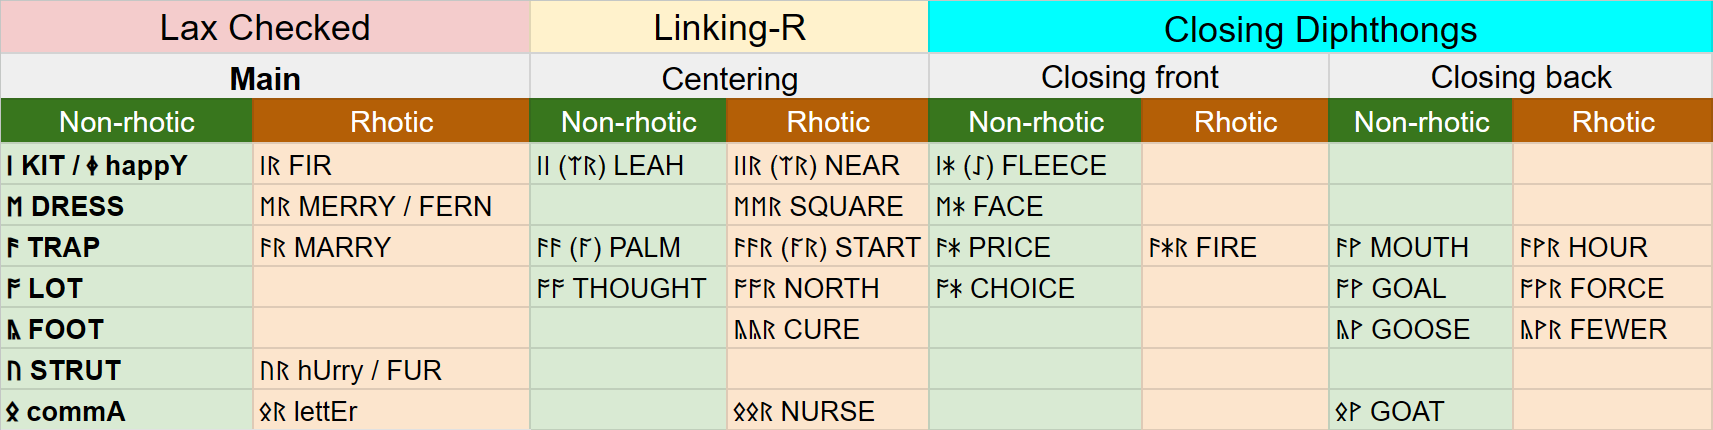
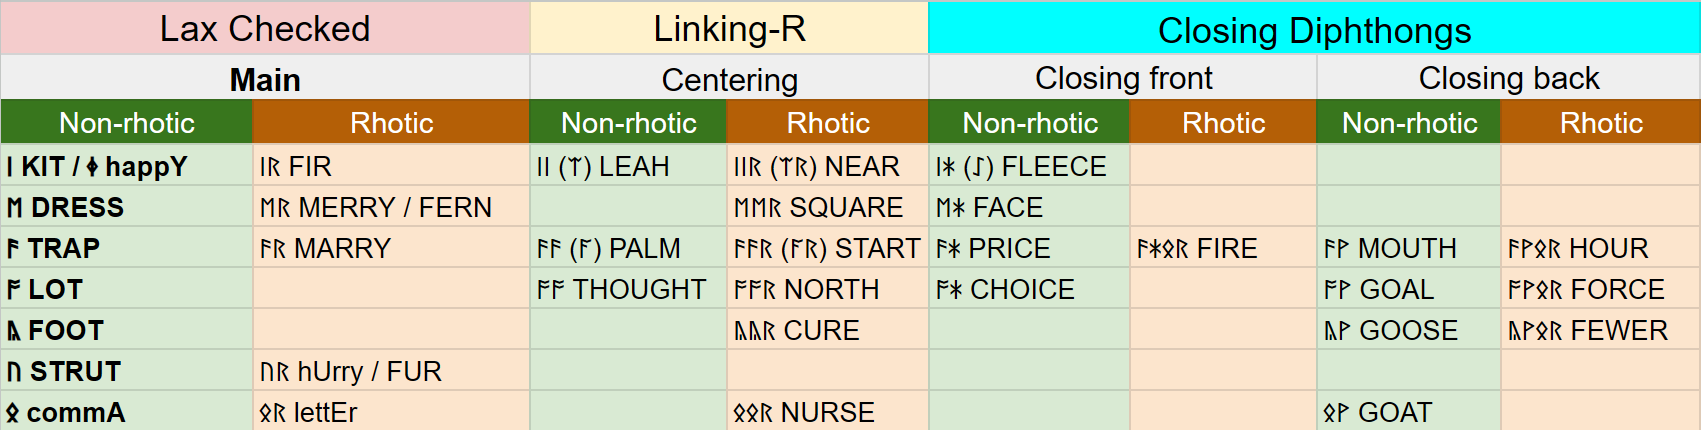
add much more about accents

diff --git a/_posts/2024-4-12-rune-school-spelling-system.md b/_posts/2024-4-12-rune-school-spelling-system.md
@@ -18,6 +18,8 @@ You can think of it as a runic Shavian with a few improvements like:
 * transparently shows the relationships between phonemes with consistent use of combinatorial patterns
 * a letter for the happY vowel
 
+This document will explain the [system](#system), the logic of the [choices](#choices) made, and questions you may have about [your accent](#what-about-my-accent) in particular.
+
 # System
 
 Based on the data from the [runes and their sounds](/runes-and-sounds/) and the info from [Dr. Lindsey's IPA symbols](/version-2/#lindsey-vowels), we can create a spelling system.
@@ -26,7 +28,12 @@ Based on the data from the [runes and their sounds](/runes-and-sounds/) and the 
 
 In parenthesis you can see the "shortcut" runes. 
 
-Below is the fully condensed and simplfied system.
+We can condense and simplify the above chart by 
+
+- removing uncommon lexical set definitions
+- combining lexical sets that are commonly merged
+- removing unnecessary doubled letters like ᚩᚩᚱ and ᚣᚣᚱ
+- using shortcut runes
 
 ![Rune School Lexical Sets Simplified](/assets/images/RuneSchoolLexicalSets-Simplified.png)
 
@@ -49,7 +56,7 @@ See a mapping of the vowels below:
 | iː | ɪj | 𐑰 | ᛁᛡ or ᛇ |
 | e | ɛ | 𐑧 | ᛖ |
 | eɪ | ɛj | 𐑱 | ᛖᛡ |
-| er | ɛ́r | 𐑺 | ᛖᚱ |
+| er | ɛ́r | 𐑧𐑮 | ᛖᚱ |
 | eə | ɛ́ːr | 𐑺 | ᛖᛖᚱ |
 | æ | a | 𐑨 | ᚫ |
 | aɪ | ɑj | 𐑲 | ᚫᛡ |
@@ -64,6 +71,10 @@ See a mapping of the vowels below:
 | ʊ | ʉ́ | 𐑫 | ᚣ |
 | uː | ʉ́w | 𐑵 | ᚣᚹ |
 | juː | jʉ́w | 𐑿 | ᛡᚣᚹ |
+
+## Bindrunes
+
+While it's definitely possible to have bindrunes that have the same effect as the "compound" or "ligature" Shavian letters, we don't want to rely on them for the system to work. If we do, we would be totally dependent on just a few font options, which is not practical for real world use.
 
 <!-- 
 | Lexical Set | Rune | Stress |
@@ -111,17 +122,17 @@ See a mapping of the vowels below:
 | aʊ | ə | ᚪ | ᛟ |
 -->
 
-# Differences from ReadLex
+## Differences from ReadLex
 
-## happY vowel
+### happY vowel
 
 Use the happY rune ᛄ where Shavian would have a trailing 𐑦.
 
-## Syllabic consonants
+### Syllabic consonants
 
-Often times, you can write just ᚱ, ᛚ, ᛗ, or ᚾ where you see 𐑼 or 𐑩𐑤, 𐑩𐑯, or 𐑩𐑥.
+Often times, you can write just ᛚ, ᛗ, or ᚾ where you see 𐑩𐑤, 𐑩𐑯, or 𐑩𐑥.
 
-In most places you see **𐑼** or **𐑩𐑤**, it is because there is a glide right before it. We write the glides, so we don't need to explicitly include the schwas. Only write ᛟᚱ if it represents the suffix -er, or similar.
+In most places you see **𐑩𐑤**, it is because there is a glide right before it. We write the glides, so we don't need to explicitly include the schwas. Only write ᛟᚱ if it represents the suffix -er, or similar.
 
 In many (not all) places where you see **𐑩𐑯** or **𐑩𐑥**, you can just right the ᛗ or ᚾ directly without the schwa needed.
 
@@ -131,7 +142,7 @@ For example, consider "Terrible". Can it be spelled ᛏᛖᚱᛟᛒᛚ without a
 
 Another example, consider "Imagine". Can it be spelled ᛁᛗᚫᚷᚾ without a schwa before the N? If we can spell the derivative "Imagination" by just adding the -ation on the end, then yes! ᛁᛗᚫᚷᚾᛖᛄᛋᚳᚾ. It fails because the syllable boundaries break. It needs to be ᛁᛗᚫᚷᛟᚾᛖᛄᛋᚳᚾ for it to sound right, and thus the base word should be ᛁᛗᚫᚷᛟᚾ.
 
-## Shortcut words
+### Shortcut words
 
 | Latin | Shavian | Runes | 
 | --- | --- | --- |
@@ -314,6 +325,75 @@ And finally, consider that this is better for crosswords and other word games. M
 In a hundred years if there is a meaningful split within PALM or TRAP, that will be workable with this system. I doubt that such a thing would occur within 500 years at least, but if it happens, we would just say “ᚪ rune grew up and earned its own row in the table!”
 
 # What about my accent?
+
+## Non-rhotic
+
+Firstly, this system is designed to allow you to drop Rs if you wish to. For example, if you are speaking to a non-rhotic audience, you may wish to write more exactly in your accent.
+
+| Latin | standard | non-rhotic |
+| --- | --- | --- | 
+| Near | ᚾᛠᚱ | ᚾᛠ |
+| Square | ᛋᛣᚹᛖᛖᚱ | ᛋᛣᚹᛖᛖ |
+| Spar | ᛋᛈᚪᚱ | ᛋᛈᚪ |
+| North | ᚾᚩᚱᚦ | ᚾᚩᚦ |
+| Hire | ᚻᚫᛡᛟᚱ | ᚻᚫᛡᛟ |
+| Higher | ᚻᚫᛡᛟᚱ | ᚻᚫᛡᛟ |
+
+However, it is this author's understanding that many non-rhotic speakers consider "spar" to be a different phoneme from "spa" even if they sound the same when spoken. "Spar" has a potential linking-r while the other does not. In this sense, you may wish to continue writing the R.
+
+"Know your audience". This system is capable of being flexible depending on your needs. We would always recommend writing the Rs for an international audience, however.
+
+## rhotic
+
+Similar to the above, you may wish to remove some schwas ᛟ that are obvious to you.
+
+| Latin | standard | rhotic |
+| --- | --- | --- | 
+| Hire | ᚻᚫᛡᛟᚱ | ᚻᚫᛡᚱ |
+| Higher | ᚻᚫᛡᛟᚱ | ᚻᚫᛡᚱ |
+| Hour | ᚫᚹᛟᚱ | ᚫᚹᛟᚱ |
+| Fewer | ᚠᛡᚣᚹᛟᚱ | ᚠᛡᚣᚹᛟᚱ |
+| They're | ᚦᛖᛡᛟᚱ | ᚦᛖᛡᚱ |
+| Runner | ᚱᚢᚾᛟᚱ | ᚱᚢᚾᚱ |
+
+But you may wish to retain the schwa in cases where there is an obvious suffix like -er.
+
+| Latin | standard | rhotic |
+| --- | --- | --- | 
+| Runner | ᚱᚢᚾᛟᚱ | ᚱᚢᚾᚱ |
+| Higher | ᚻᚫᛡᛟᚱ | ᚻᚫᛡᛟᚱ |
+
+## Yods and Yod coalescence
+
+To understand what this is, let's look at some examples
+
+| Latin | No yod | Yod | Yod coalescence |
+| --- | --- | --- | 
+| Dune | ᛞᚣᚹᚾ | ᛞᛡᚣᚹᚾ | ᚷᚣᚹᚾ |
+| Tube | ᛏᚣᚹᛒ | ᛏᛡᚣᚹᛒ | ᚳᚣᚹᛒ |
+
+The ᛡ is either dropped or combines with the consonant before it to change the consonant sound.
+
+For communicating internationally, we are going to recommend the [Goldilocks principle](https://en.wikipedia.org/wiki/Goldilocks_principle) and take the middle path of the Yod if at all possible. However, there are some instances where Yod coalescence is very common. Quoting the Shavian ReadLex:
+
+> Yod-coalescence is generally accepted where it occurs in RP and GA, so ‘fortune’ is /fɔː(r)tʃuːn/ ᚠᚩᚱᛏᚣᚹᚾ not /fɔː(r)tjuːn/ ᚠᚩᚱᛏᛡᚣᚹᚾ. However, where GA pronounces a plain /uː/ with no ‘yod’, and RP has a ‘yod’, then for intelligibility the ‘yod’ is retained uncoalesced, so ‘aptitude’ is /æptɪtjuːd/ ᚫᛈᛏᛁᛏᛡᚣᚹᛞ, not /æptɪtʃuːd/ ᚫᛈᛏᛁᚳᚣᚹᛞ.
+
+As always, if you know your audience, write how you wish! Use your own judgement.
+
+## NEAR or SQUARE sounds different
+
+NEAR and SQUARE lexical sets are hard to pin down. You could pronounce either of them in one of these three boxes (red, purple, blue).
+
+![NEAR and SQUARE set possible locations](/assets/images/NEARandSQUARE.png)
+
+In this approach, we are going with the [Goldilocks principle](https://en.wikipedia.org/wiki/Goldilocks_principle). Not hot (red), not cold (blue), but just right (purple). 
+
+Consider:
+
+| Latin | Runes |
+| --- | --- | 
+| There / They're | ᚦᛖᛖᚱ / ᚦᛖᛡᛟᚱ |
+| keyring / hearing | ᛣᛇᚱᛁᛝ / ᚻᛠᚱᛁᛝ |
 
 ## Don't have the FACE merger
 

diff --git a/_lessons/5.md b/_lessons/5.md
@@ -102,21 +102,23 @@ Remember the ᛡ rune that turned "i" into "ee"? We can also attach that on the 
 </details>
 
 <details>
-    <summary>ᛚᚫᛡᚱ</summary>
+    <summary>ᛚᚫᛡᛟᚱ</summary>
     <p>liar / lyre</p>
 </details>
 
-Did that last one sound like "lie-ur"? That's because when a ᚱ comes after a ᛡ we sometimes pronounce a little "uh" in between. ᚱ and ᛚ behave similarly like that (remember "teal"?).
+Why do we need a ᛟᚱ at the end there? Well British speakers may say this like ᛚᚫᛡᛟ and American speakers may say this like ᛚᚫᛡᚱ. Writing it this way makes it recognizable to both!
+
+<details>
+    <summary>ᚹᚫᛡᛏ</summary>
+    <p>white</p>
+</details>
 
 <details>
     <summary>ᛏᚫᛡᛚ</summary>
     <p>tile</p>
 </details>
 
-<details>
-    <summary>ᚹᚫᛡᛏ</summary>
-    <p>white</p>
-</details>
+Did that last one sound like "tie-uhl"? Just like with "teal", we like to insert a little schwa between a ᛡ and ᛚ.
 
 <details>
     <summary>ᛏᚫᛡᛈ</summary>
@@ -170,9 +172,11 @@ The rune for <strong>d</strong> is <mark>ᛞ</mark>.
 </details>
 
 <details>
-    <summary>ᛏᚫᚹᚱ</summary>
+    <summary>ᛏᚫᚹᛟᚱ</summary>
     <p>tower</p>
 </details>
+
+Again, British speakers may say that one more like ᛏᚫᚹᛟ and Americans more like ᛏᚫᚹᚱ. This course is teaching a spelling system that allows us to speak "across the pond" with each other.
 
 <details>
     <summary>ᛋᛏᚫᛡᛚ</summary>
@@ -180,7 +184,7 @@ The rune for <strong>d</strong> is <mark>ᛞ</mark>.
 </details>
 
 <details>
-    <summary>ᛋᚫᚹᚱ</summary>
+    <summary>ᛋᚫᚹᛟᚱ</summary>
     <p>sour</p>
 </details>
 

diff --git a/_lessons/2.md b/_lessons/2.md
@@ -106,7 +106,9 @@ Why ᛁᛁᚱ instead of just ᛁᚱ? Because ᛁᚱ would be a different phonem
     <p>tier</p>
 </details>
 
-You may notice that you have a pause in between the two ᛁᛁ runes like "pee-er". You might even hear a slight y sound in that pause! That is why we use the two runes instead of the one. It's a lengthened sound. English accents pronounce this phoneme in different ways. To keep all the accents united, we group this sound under the lengthened category.
+You may notice that you have a pause in between the two ᛁᛁ runes like "pee-er". You might even hear a slight y sound in that pause! That is why we use the two runes instead of the one. It's a lengthened sound. 
+
+What about using ᛁᛡᚱ instead? English accents pronounce this phoneme in different ways. To keep all the accents united, we group this sound under the lengthened category.
 
 <details>
     <summary>ᛚᛁᛁᚱ</summary>
